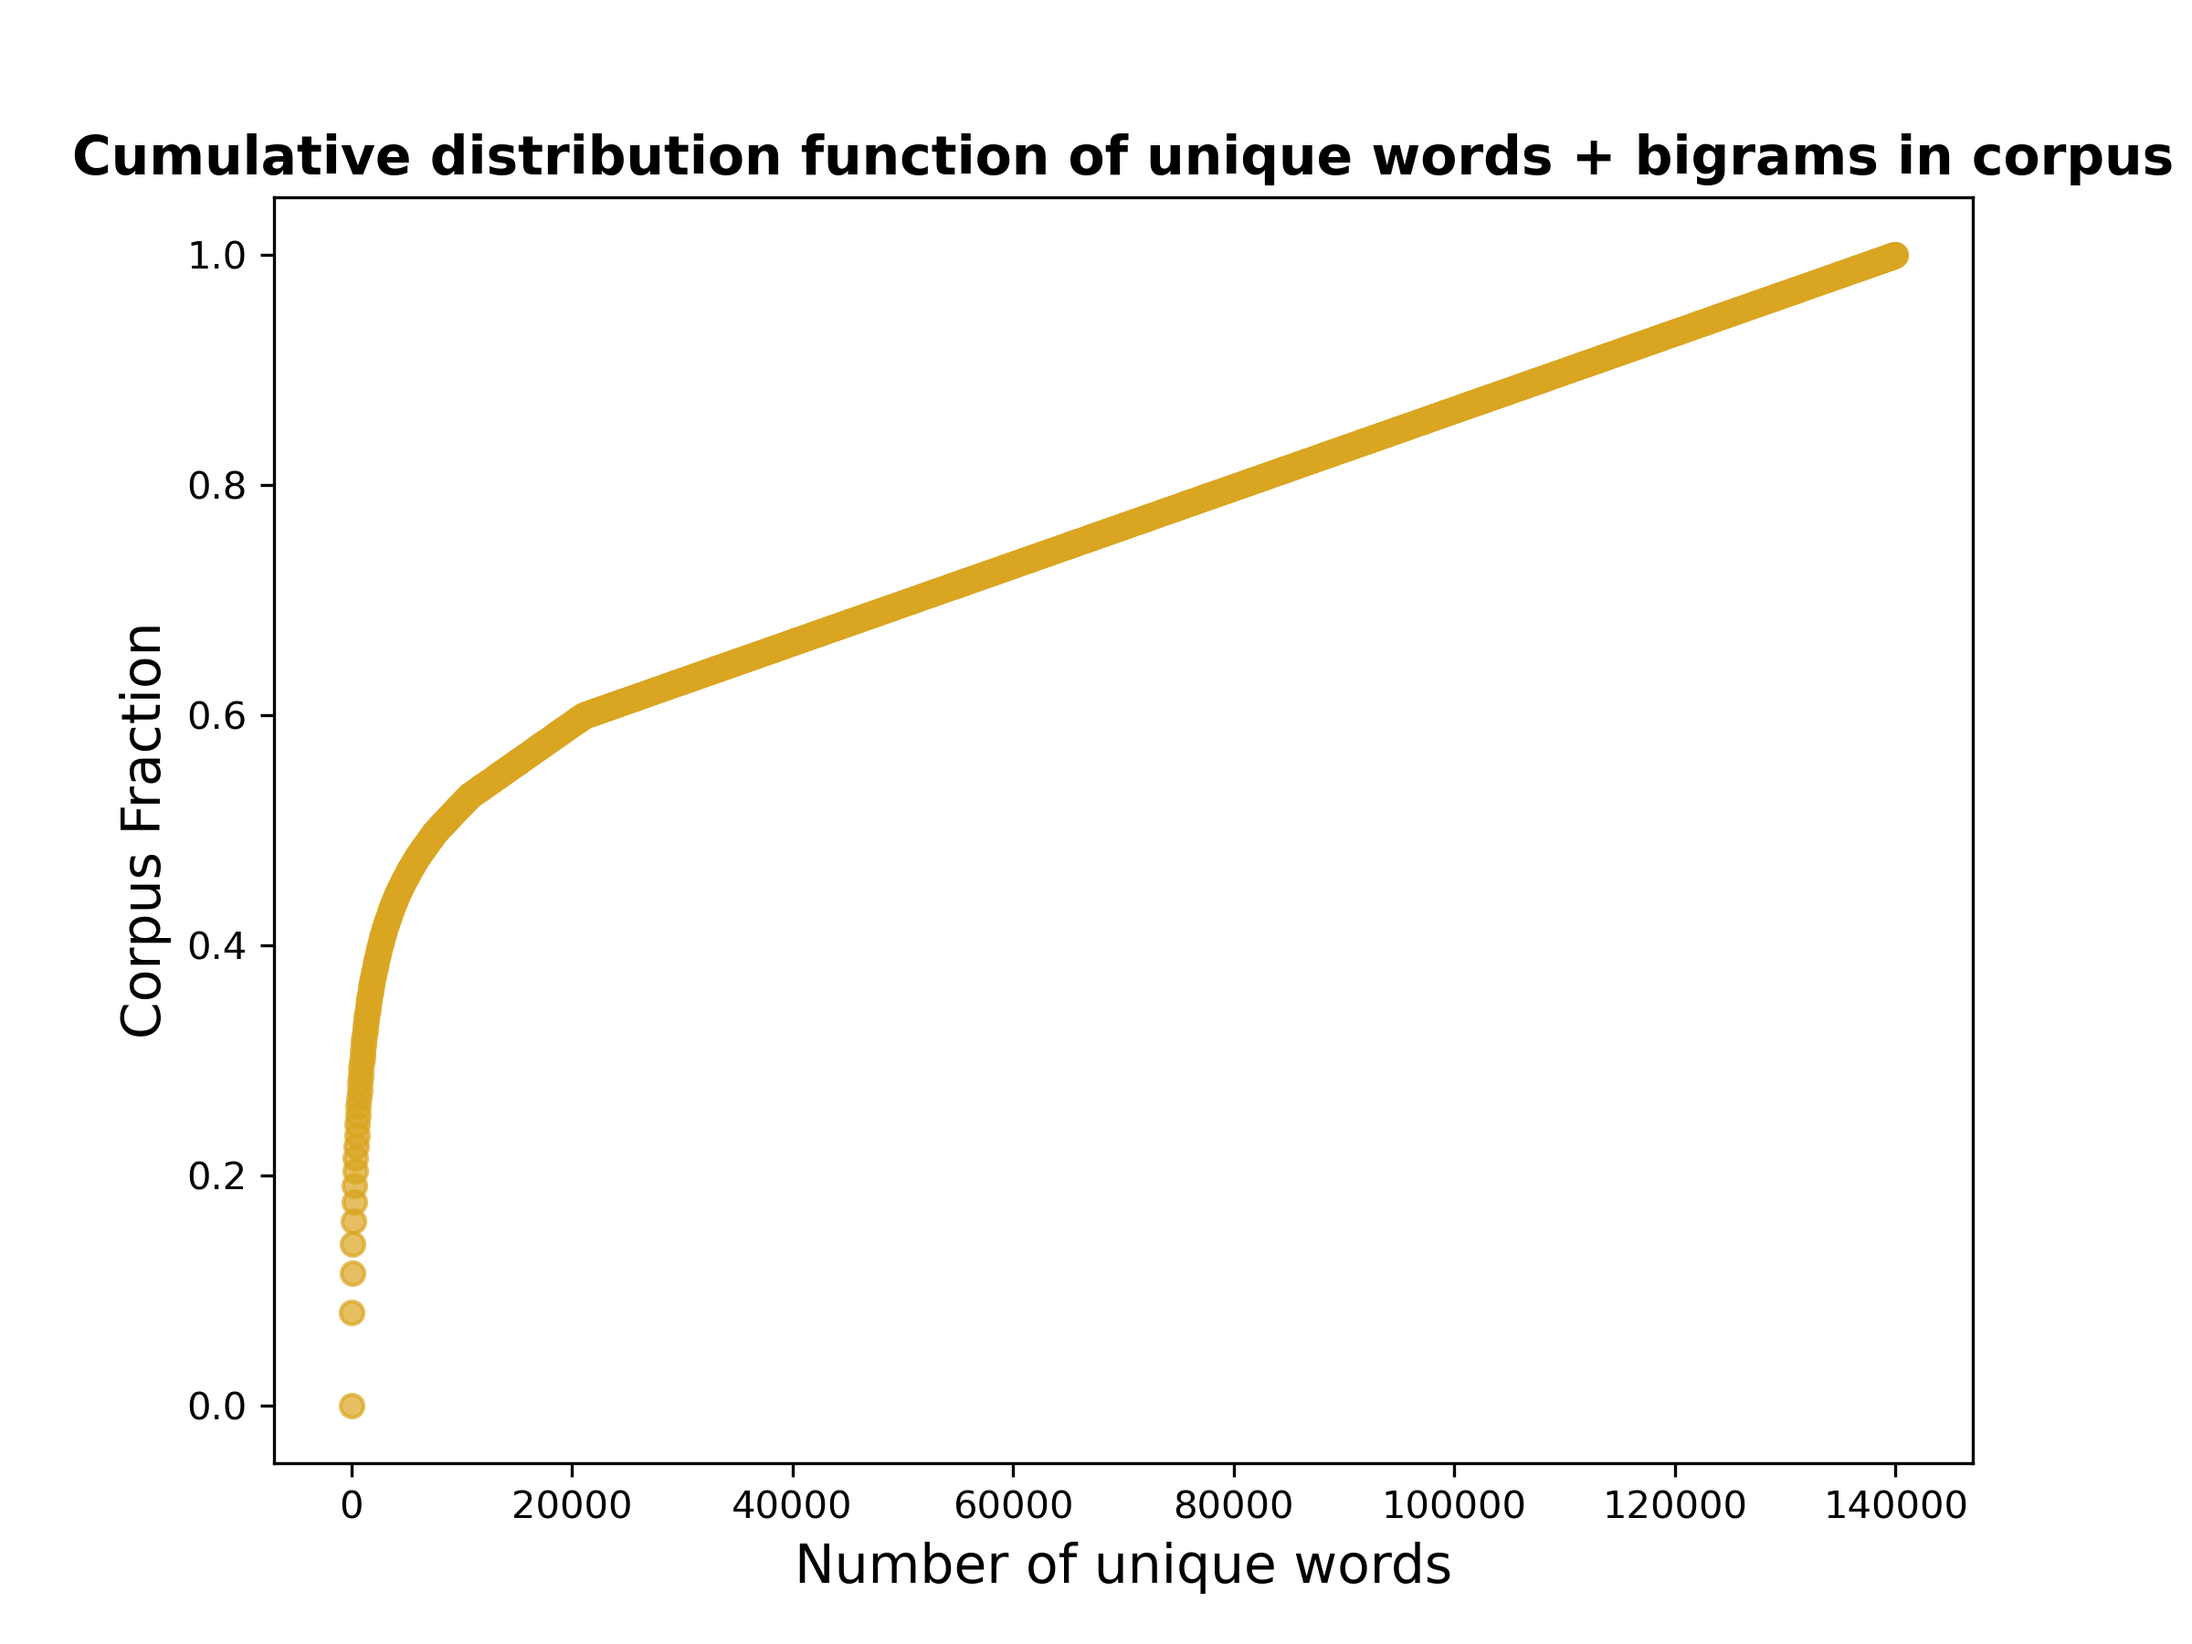
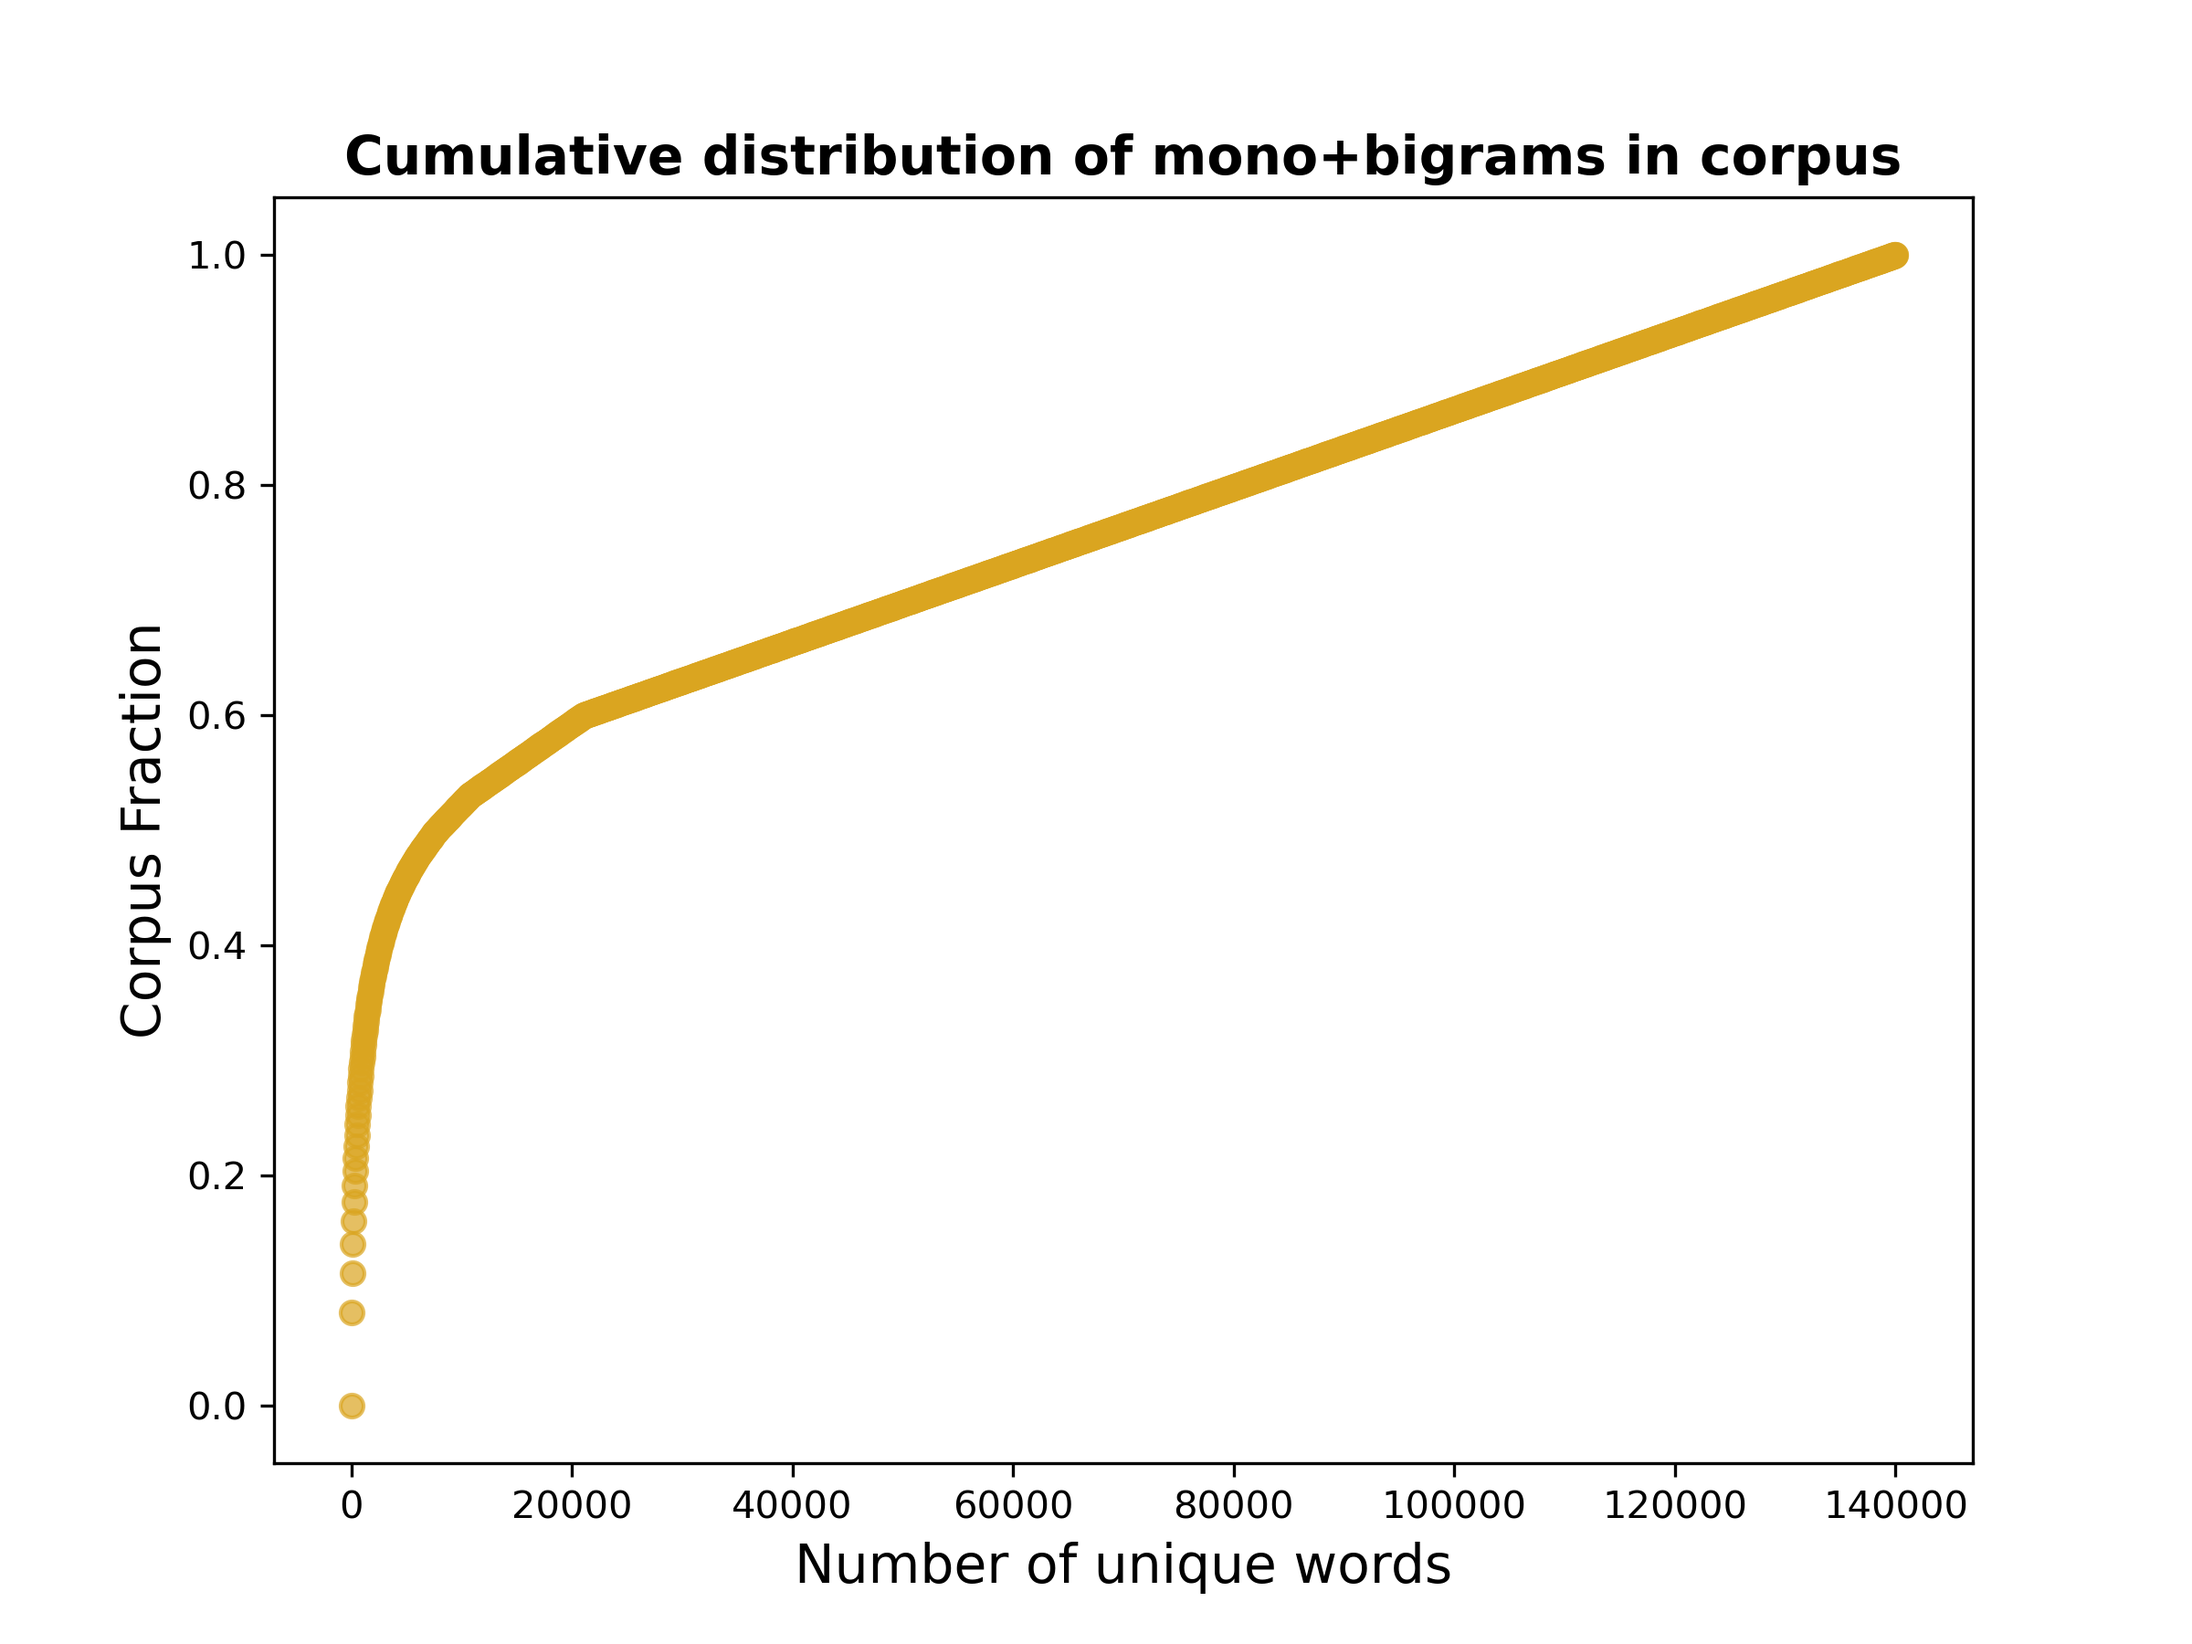
README 3.01.x1dv

Changed region(s): [[0.0312, 0.0622, 1.0, 0.1244]]

diff --git a/README.md b/README.md
@@ -84,13 +84,14 @@ A final piece of important information is the link that is included with the pos
 For the comments, after some investigation I decided to use the score (number of upvotes vs downvotes), the word length of each comment, and whether the post was made by a frequent poster or not (more likely in r/conservative, where there are restrictions on who is allowed to post). Because there is a large variety of different words used in comments, the number of features will get very large after vectorizing. For that reason, I did some word frequency-related EDA:
 
 <p float="middles">
-  <img src="./figures/mono_cum_wl.png" width="500px"/>
-  <img src="./figures/bigram_cum_wl.png" width="500px"/>
+  <img src="./figures/mono_cum_wl.png" width="350px"/>
+  <img src="./figures/bigram_cum_wl.png" width="350px"/>
 </p>
 
+When just using monograms (single words), we can see that we could limit the maximum number of features by about 1/3rd, and only lose about 1% of all words in the corpus. Setting such a constraint could help combat overfitting. To retain some context of the words however, I would also like to include bigrams (sets of two words). As can be seen in the plots above, this greatly blows up the number of features, and we also lose the fact that many n-grams only appear a handful of times. This inspired me to write a custom sklearn transformer where we can tune how many bigrams we want to keep, while still keeping most of the monograms.
 
 ## Overall Conclusions
-Using Pushshift API, I collected data from two different subreddits, r/politics and r/conservative, from the month leading up to the 2022 midterms (October 2022). I tested out different classification models in order to classify 1) posts and 2) comments. After data cleaning, I was left with about 19,000 posts (53/47 split for r/conservative - r/politics, respectively), and 48,000 comments (47/53 split). 
+Using Pushshift API, I collected data from two different subreddits, r/politics and r/conservative, from the month leading up to the 2022 midterms (October 2022). I tested out different classification models in order to classify 1) posts and 2) comments. After data cleaning, I was left with about 19,000 posts (53/47 split for r/conservative - r/politics, respectively), and 48,000 comments (47/53 split). In order to model the language, we used a 'bag of words' approach with a TF-IDF (Term Frequency - Inverse Document Frequency) vectorizer.
 
 For the posts model, other than the title I included two additional pieces of information: the number of comments on each post, and the domain name that the post linked to. The final model that I used consists of a Stacking Classifier, using Logistic Regression, Random Forest, and Multinomial Naive Bayes as the base estimators. and a Logistic Regression as the final estimator. The final accuracy on the testing data is <b>88.1%</b>. Analysis of the feature importances indicates that the domain names are highly predictive and help improve the accuracy score a lot. This makes a lot of sense given the fact that the US political media system is highly polarized, and certain websites are only read by conservatives while others are highly avoided by conservatives, and vice versa.
 
